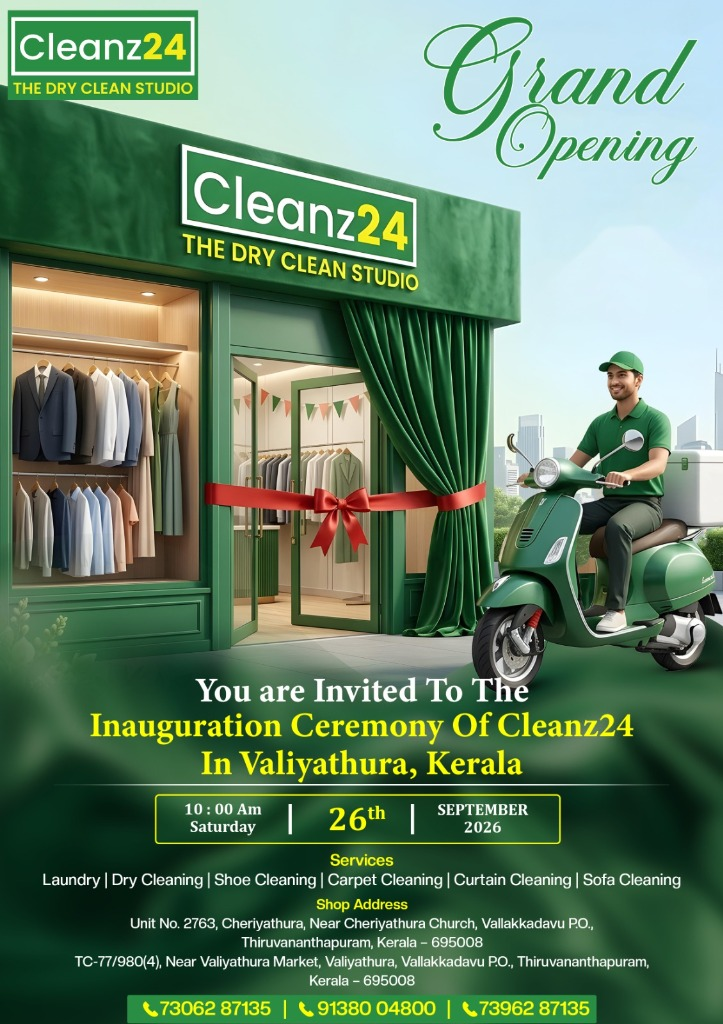
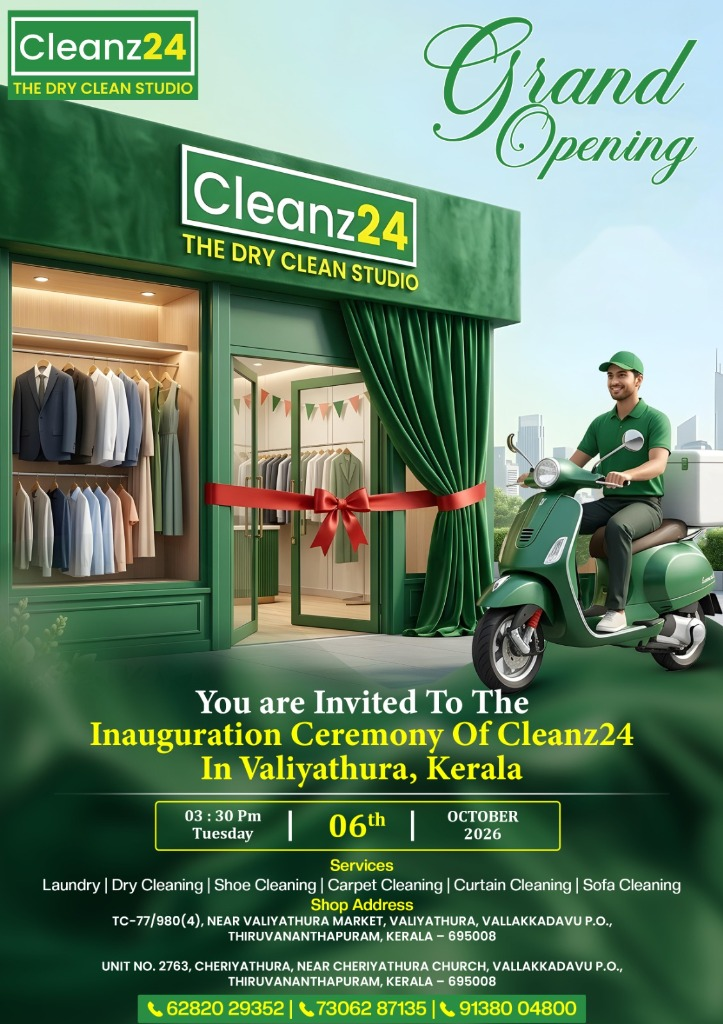
Update Valiyathura grand opening date to October 6 and remove premature store page

Changed region(s): [[0.0609, 0.6562, 0.9433, 1.0]]

diff --git a/CLeanz24_website/src/views/laundry/LaundryHome.jsx b/CLeanz24_website/src/views/laundry/LaundryHome.jsx
@@ -56,14 +56,14 @@ export default function LaundryHome() {
   // ─── GRAND OPENING EVENT CONFIG ───
   // Set enabled: true whenever you want to activate the Grand Opening popup & badge again
   const grandOpeningConfig = {
-    enabled: false, // Set to true to show popup & announcement badge anytime in the future
+    enabled: true, // Activated Grand Opening popup for Valiyathura (Postponed to Oct 6, 3:30 PM)
     title: 'Valiyathura, Kerala',
     image: '/grand_opening_valiyathura.jpg',
-    key: 'cleanz24_valiyathura_opening_v1',
-    phone: '9138004800',
-    whatsapp: '919138004800',
+    key: 'cleanz24_valiyathura_opening_oct6_v3', // Updated key so all visitors see the updated date
+    phone: '6282029352',
+    whatsapp: '916282029352',
     locationText: 'Valiyathura, Kerala',
-    storeUrl: '/best-laundry-drycleaning/store/best-laundry-drycleaning-services-valiyathura',
+    storeUrl: '', // Store page removed as store is not live yet
   };
 
   const activeGrandOpening = grandOpeningConfig.enabled ? grandOpeningConfig : null;

diff --git a/CLeanz24_website/src/data.js b/CLeanz24_website/src/data.js
@@ -1320,21 +1320,6 @@ export const storesData = [
     reviews: 0,
     openingTime: '2026-08-28T10:00:00+05:30',
     status: 'Opening Soon'
-  },
-  {
-    id: 78,
-    name: 'Cleanz24 - Valiyathura Thiruvananthapuram',
-    address: 'TC-77/980(4), Near Valiyathura Market, Valiyathura, Vallakkadavu P.O., Thiruvananthapuram, Kerala - 695008',
-    phone: '9138004800',
-    whatsapp: '919138004800',
-    city: 'Valiyathura',
-    state: 'Kerala',
-    tags: ['Kerala', 'Thiruvananthapuram', 'Trivandrum', 'Valiyathura', 'Cheriyathura', 'Vallakkadavu', '695008'],
-    rating: 4.9,
-    reviews: 0,
-    openingTime: '2026-09-26T10:00:00+05:30',
-    status: 'Opening Soon',
-    timeline: 'Opening 26 September, 10:00 AM'
   }
 ];
 

diff --git a/CLeanz24_website/src/views/laundry/Stores.jsx b/CLeanz24_website/src/views/laundry/Stores.jsx
@@ -69,9 +69,9 @@ const rawComingSoonStores = [
     state: "Kerala",
     area: "Near Valiyathura Market, Vallakkadavu",
     address: "TC-77/980(4), Near Valiyathura Market, Valiyathura, Vallakkadavu P.O., Thiruvananthapuram, Kerala - 695008",
-    phone: "9138004800",
-    timeline: "Opening 26 September, 10:00 AM",
-    openingTime: "2026-09-26T10:00:00+05:30",
+    phone: "6282029352",
+    timeline: "Opening 06 October, 03:30 PM",
+    openingTime: "2026-10-06T15:30:00+05:30",
     status: "Opening Soon"
   }
 ];
